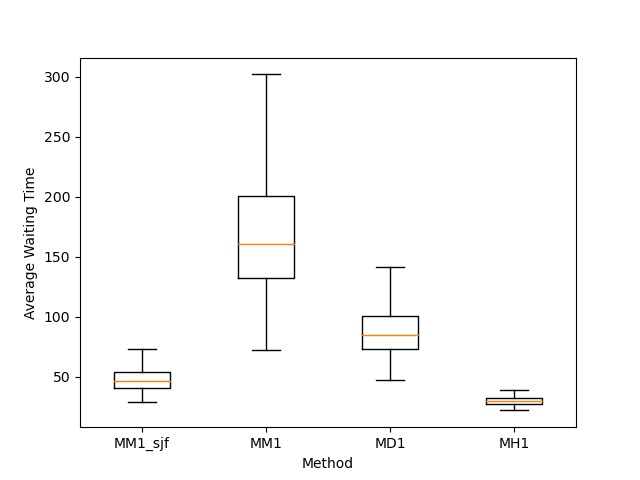
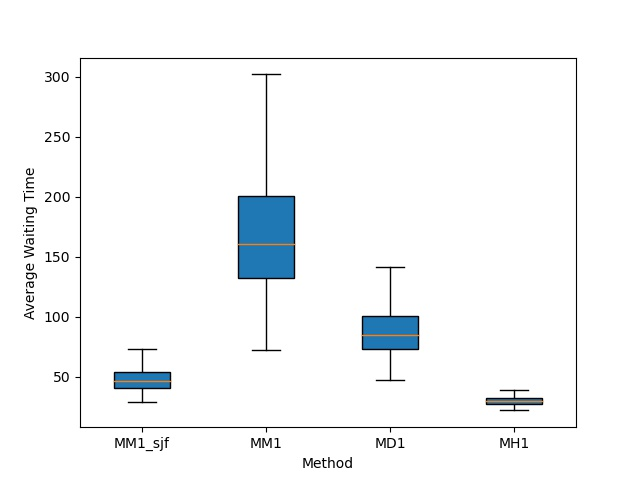
test

diff --git a/SenneBakker_13918079_WiebeTimmers_11298294_Assignment2.py b/SenneBakker_13918079_WiebeTimmers_11298294_Assignment2.py
@@ -156,7 +156,7 @@ def plot_boxplots(bpdict):
         plt.ylabel('Average Waiting Time')
         plt.xlabel('Method')
         #for c in cap1:
-        ax.boxplot(i.values(), showfliers=False)
+        ax.boxplot(i.values(), showfliers=False, patch_artist=True)
         ax.set_xticklabels(i.keys())
         plt.savefig('boxplot_%s.jpg'%str(names[count]))
         plt.close()
